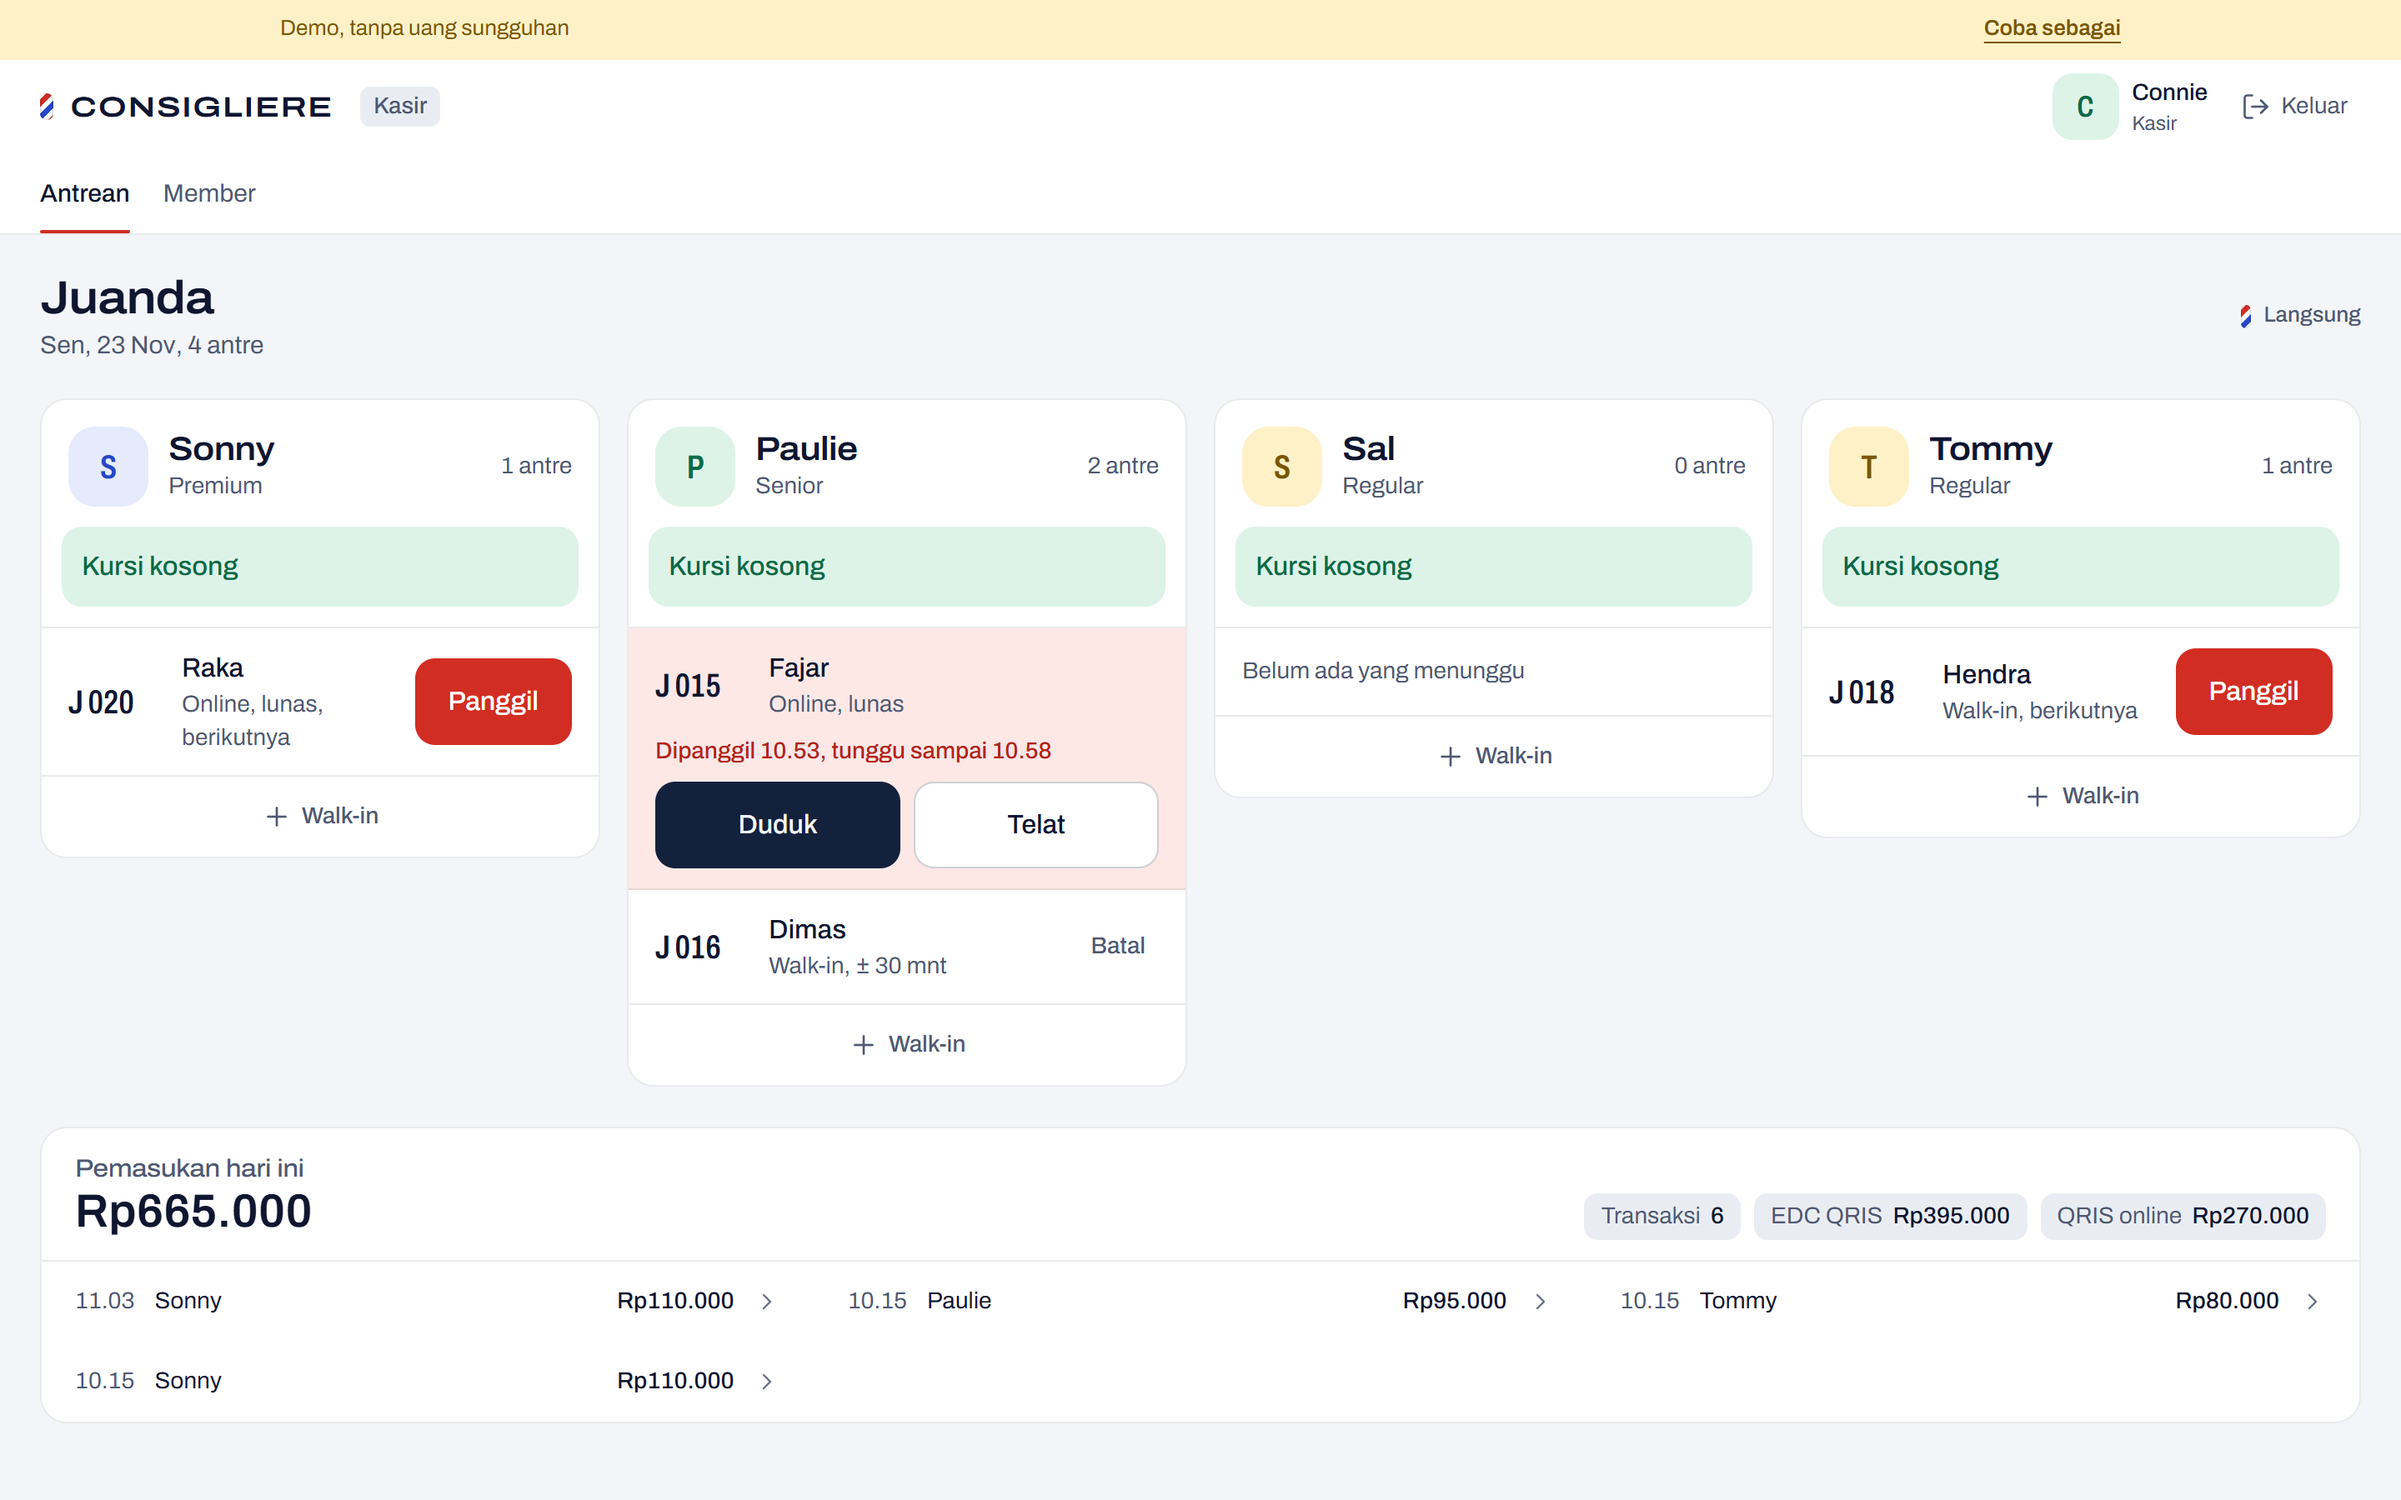
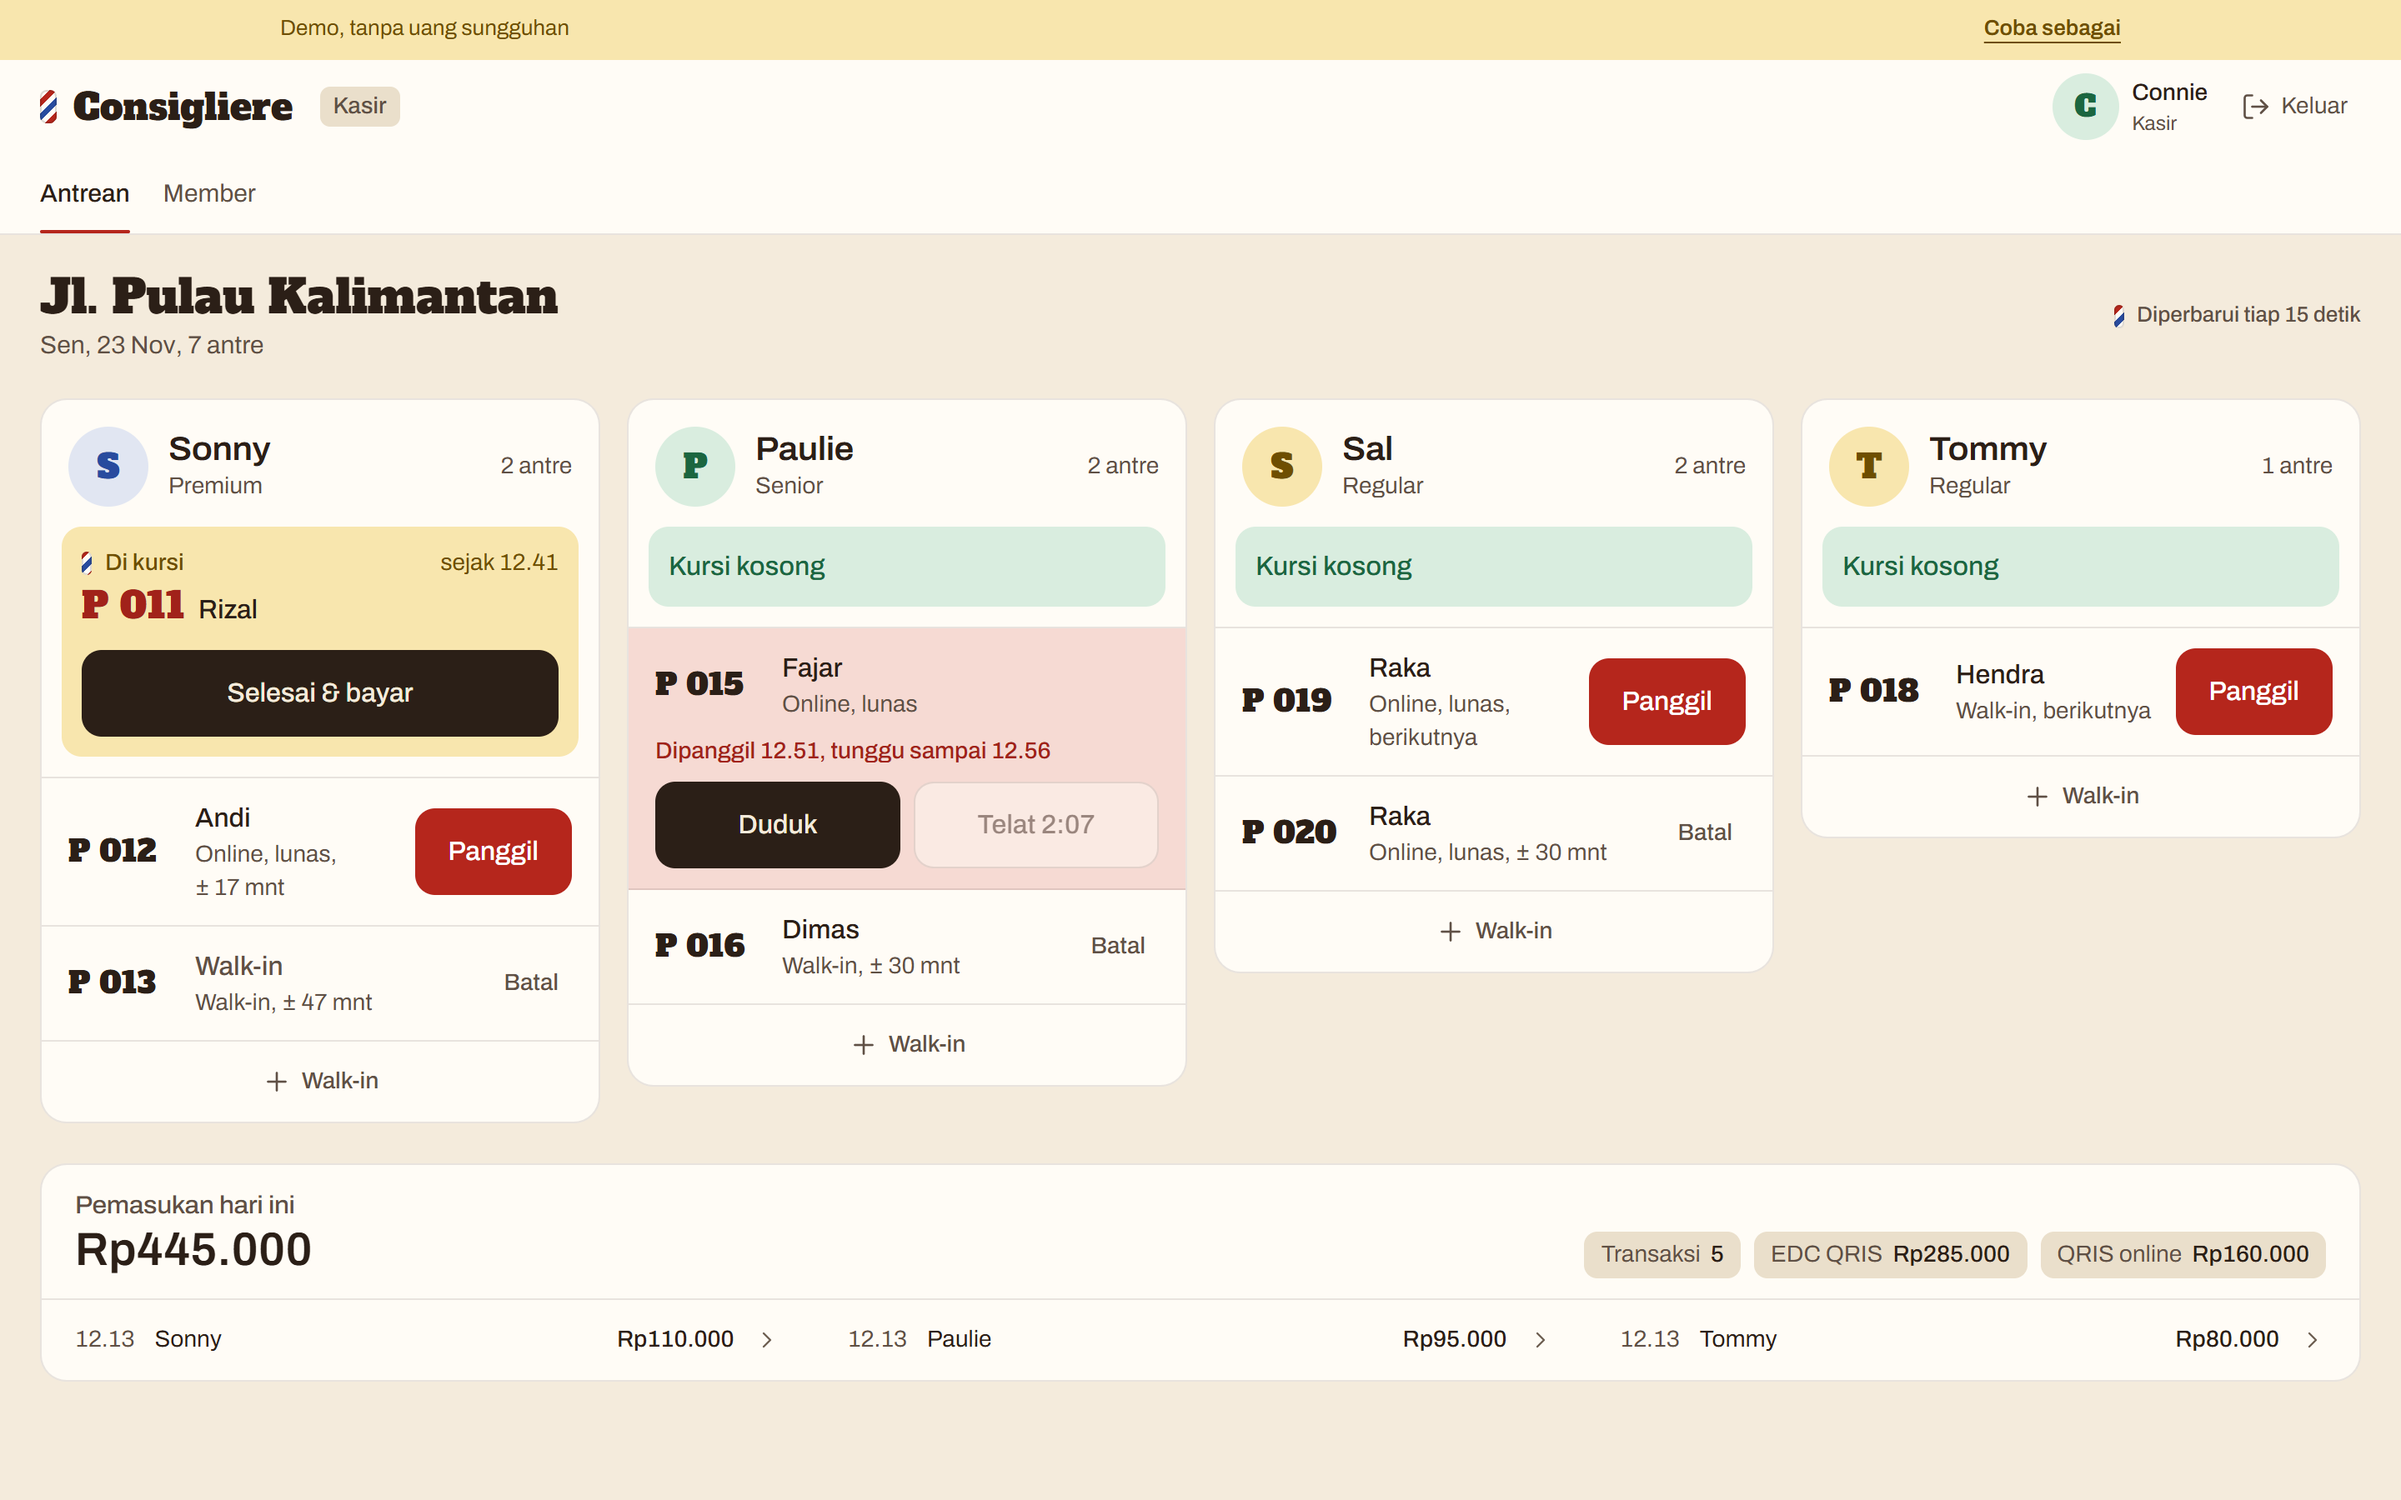
docs: README screenshots and notes in the new look, with the new branch names

diff --git a/README.md b/README.md
@@ -138,7 +138,7 @@ Home on mobile: LCP about 2.1 s, CLS 0.001. The cashier and back office sit behi
 ## Stack
 
 - **App:** Next.js 16.4 (App Router, Cache Components, React Compiler, typed routes), React 19.3, TypeScript 7 strict
-- **UI:** Tailwind CSS 4.3 on the project's own tokens and components, one variable font (Archivo), no UI kit
+- **UI:** Tailwind CSS 4.3 on the project's own tokens and components, two fonts with one job each (Alfa Slab One for the sign, Archivo for reading), no UI kit
 - **Data:** Supabase Postgres and Realtime Broadcast, Drizzle ORM, Zod 4
 - **Auth:** Better Auth, password for staff, phone and PIN for members, rate-limited in the database
 - **Payments:** Xendit QRIS behind a swappable provider, EDC payments recorded by the cashier
@@ -154,7 +154,7 @@ pnpm install
 pnpm dev
 ```
 
-Open http://localhost:3000. `/demo` gives one-tap logins for member, cashier and owner, `/tablet/juanda` is the counter screen and `/gaya` is the live style sheet. Data lives in memory and resets on restart.
+Open http://localhost:3000. `/demo` gives one-tap logins for member, cashier and owner, `/tablet/pulau-kalimantan` is the counter screen and `/gaya` is the live style sheet. Data lives in memory and resets on restart.
 
 To run against your own Supabase project instead:
 
@@ -188,7 +188,7 @@ The cron in `vercel.json` resets the demo every night at 00.00 WITA.
 
 - [Brief](docs/brief.md): who it's for, the rules agreed with the shop, and a change log of every decision
 - [Design doc](docs/design.md): stack, data model, domain rules, build phases and visual language
-- [Design research](docs/design-research.md): sources and lessons behind the daylight redesign
+- [Design research](docs/design-research.md): sources and lessons behind the redesigns and the brand character
 
 ---
 
